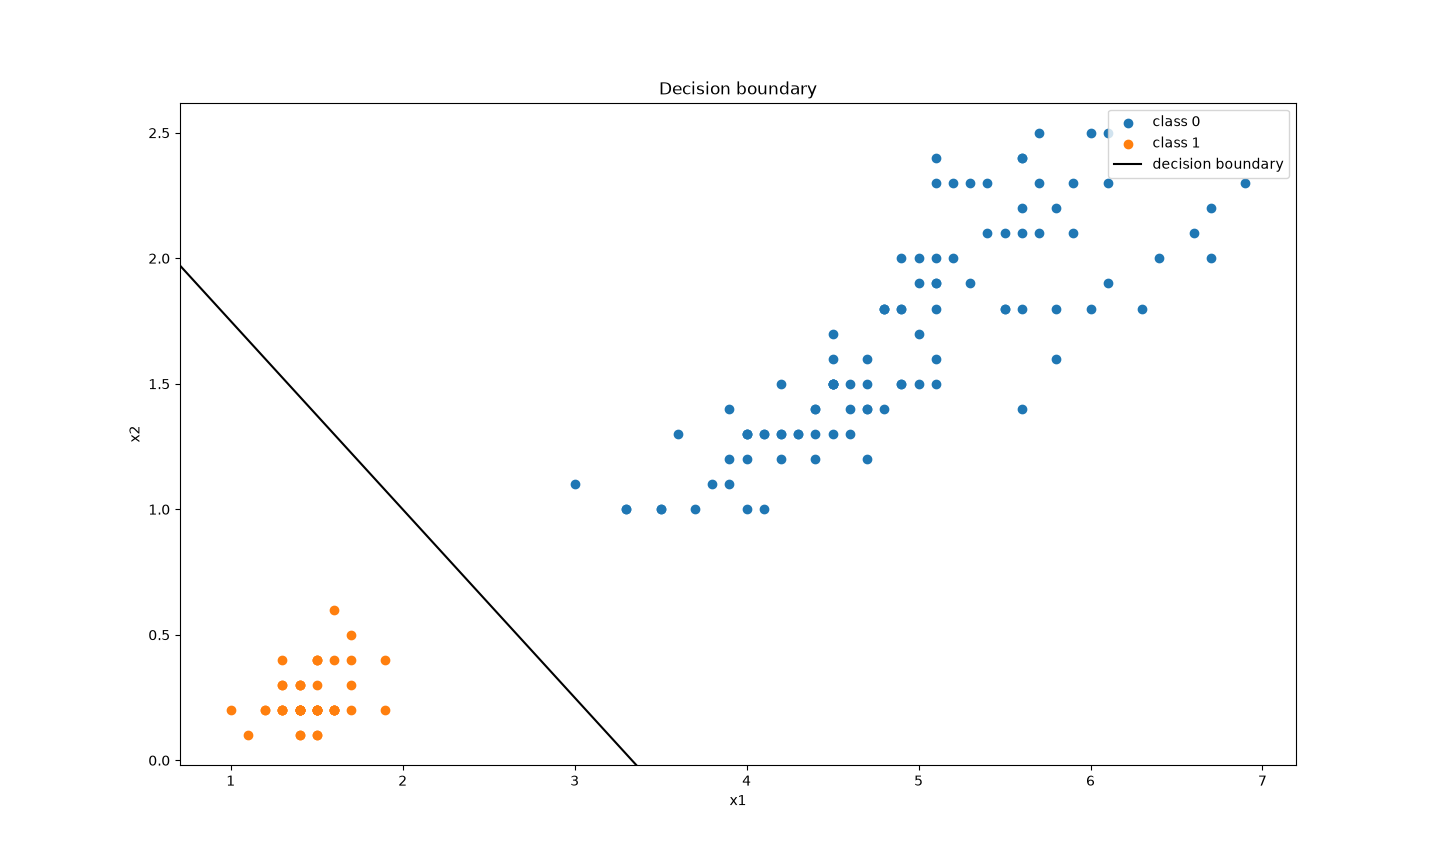
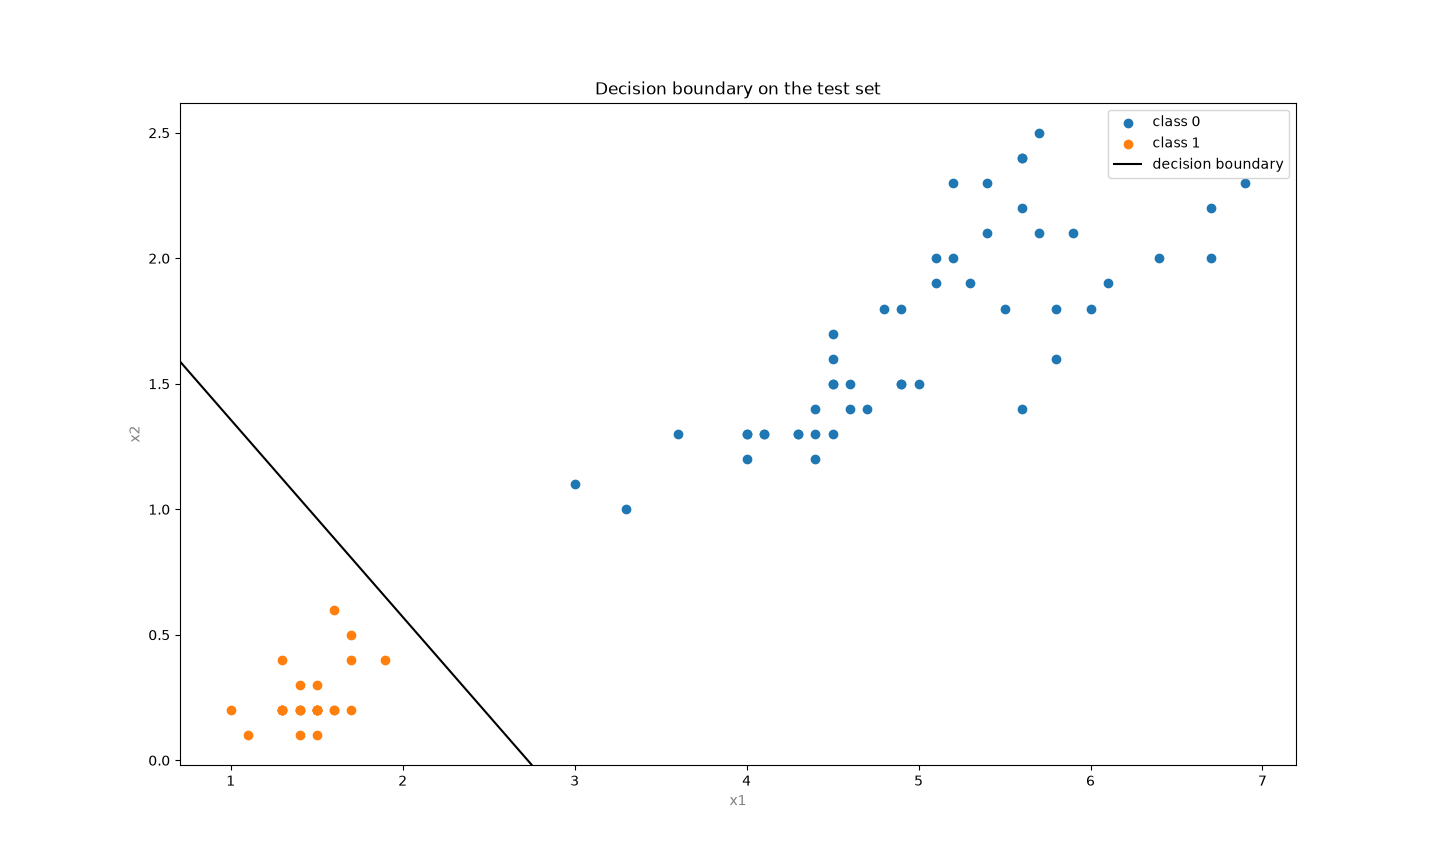
Add dataset split and test-size option

diff --git a/src/perceptron/cli.py b/src/perceptron/cli.py
@@ -6,7 +6,7 @@ from pathlib import Path
 import matplotlib.pyplot as plt
 from matplotlib.figure import Figure
 
-from perceptron.data import generate_two_clusters, load_iris_binary
+from perceptron.data import generate_two_clusters, load_iris_binary, train_test_split
 from perceptron.model import FloatArray, IntArray, Perceptron
 from perceptron.plots import plot_decision_boundary, plot_errors
 
@@ -36,6 +36,12 @@ def build_parser() -> argparse.ArgumentParser:
     parser.add_argument(
         "--epochs", type=int, default=50, help="number of training epochs"
     )
+    parser.add_argument(
+        "--test-size",
+        type=float,
+        default=0.2,
+        help="fraction of samples assigned to the test set (default: %(default)s)",
+    )
     parser.add_argument("--seed", type=int, default=0, help="seed for reproducibility")
     parser.add_argument(
         "--dataset",
@@ -63,6 +69,9 @@ def validate_args(parser: argparse.ArgumentParser, args: argparse.Namespace) -> 
     if args.epochs < 1:
         parser.error("--epochs must be at least 1")
 
+    if not 0 < args.test_size < 1:
+        parser.error("--test-size must be strictly between 0 and 1")
+
 
 def load_data(args: argparse.Namespace) -> tuple[FloatArray, IntArray]:
     """Generate clusters or load Iris depending on --dataset."""
@@ -74,6 +83,13 @@ def load_data(args: argparse.Namespace) -> tuple[FloatArray, IntArray]:
             spread=args.spread,
         )
     return load_iris_binary()
+
+
+def split_data(
+    args: argparse.Namespace, X: FloatArray, y: IntArray
+) -> tuple[FloatArray, FloatArray, IntArray, IntArray]:
+    """Split the dataset into training and test sets using CLI options."""
+    return train_test_split(X, y, test_size=args.test_size, seed=args.seed)
 
 
 def train_model(
@@ -105,7 +121,9 @@ def make_figures(
     """Build plots and return them keyed by file name."""
     figures = {"errors": plot_errors(errors)}
     if X.shape[1] == 2 and model.n_features == 2:
-        figures["boundary"] = plot_decision_boundary(model=model, X=X, y=y)
+        figures["boundary"] = plot_decision_boundary(
+            model=model, X=X, y=y, title="Decision boundary on the test set"
+        )
     else:
         print("Decision boundary is only available for 2 features")
 
@@ -131,12 +149,12 @@ def print_report(
     y: IntArray,
 ) -> None:
     """Print dataset info, training summary and accuracy."""
-    print(f"Dataset: {args.dataset} ({X.shape[0]} samples, {X.shape[1]} features)")
+    print(f"Test set: {args.dataset} ({X.shape[0]} samples, {X.shape[1]} features)")
     status = "converged" if errors[-1] == 0 else "not converged"
     epoch_word = "epoch" if len(errors) == 1 else "epochs"
     print(f"Training: {len(errors)} {epoch_word}, {status}")
     accuracy = model.score(X, y)
-    print(f"Accuracy: {accuracy:.3f}")
+    print(f"Test accuracy: {accuracy:.3f}")
 
 
 def main(argv: list[str] | None = None) -> None:
@@ -146,11 +164,15 @@ def main(argv: list[str] | None = None) -> None:
     validate_args(parser, args)
 
     X, y = load_data(args)
-    model, errors = train_model(args, X, y)
-    print_report(args, model, errors, X, y)
+    try:
+        X_train, X_test, y_train, y_test = split_data(args, X, y)
+    except ValueError as exc:
+        parser.error(str(exc))
+    model, errors = train_model(args, X_train, y_train)
+    print_report(args, model, errors, X_test, y_test)
 
     if args.plot or args.save_dir:
-        figures = make_figures(model, errors, X, y)
+        figures = make_figures(model, errors, X_test, y_test)
 
         if args.save_dir:
             save_figures(figures, args.save_dir)

diff --git a/src/perceptron/data.py b/src/perceptron/data.py
@@ -1,5 +1,7 @@
 """Synthetic dataset generation and Iris loading."""
 
+import math
+
 import numpy as np
 from sklearn.datasets import load_iris
 
@@ -77,3 +79,53 @@ def load_iris_binary() -> tuple[FloatArray, IntArray]:
     target = np.asarray(iris.target == 0, dtype=np.int_)
 
     return dataset, target
+
+
+def train_test_split(
+    X: FloatArray, y: IntArray, test_size: float = 0.2, seed: None | int = None
+) -> tuple[FloatArray, FloatArray, IntArray, IntArray]:
+    """Randomly split features and labels into training and test sets.
+
+    Args:
+        X: Feature matrix of shape (n_samples, n_features).
+        y: Label array of shape (n_samples,).
+        test_size: Fraction of samples assigned to the test set. The resulting
+            test count is rounded up to the next integer if needed.
+        seed: Random seed for reproducibility. If None, the split can vary
+            between calls.
+
+    Returns:
+        A tuple (X_train, X_test, y_train, y_test).
+
+    Raises:
+        ValueError: If X or y has the wrong number of dimensions, their sample
+            counts differ, test_size is outside the open interval (0, 1), or
+            the split leaves no training samples.
+    """
+    if X.ndim != 2:
+        raise ValueError("X must be a two-dimensional array")
+
+    if y.ndim != 1:
+        raise ValueError("y must be a one-dimensional array")
+
+    if X.shape[0] != y.shape[0]:
+        raise ValueError("X and y must contain the same number of samples")
+
+    if not 0 < test_size < 1:
+        raise ValueError("test_size must be strictly between 0 and 1")
+
+    n_samples = X.shape[0]
+    n_test = math.ceil(n_samples * test_size)
+
+    if n_test >= n_samples:
+        raise ValueError("The requested split leaves no samples for training")
+
+    rng = np.random.default_rng(seed)
+    indices = rng.permutation(n_samples)
+
+    X_test = X[indices[:n_test]]
+    X_train = X[indices[n_test:]]
+    y_test = y[indices[:n_test]]
+    y_train = y[indices[n_test:]]
+
+    return X_train, X_test, y_train, y_test

diff --git a/README.md b/README.md
@@ -4,8 +4,8 @@
 ![Python](https://img.shields.io/badge/python-3.12-blue)
 
 A single-layer perceptron for binary classification, implemented by hand with NumPy.
-It trains on synthetic 2D clusters or on the Iris dataset, prints its accuracy,
-and plots the decision boundary and the training error curve.
+It trains on synthetic 2D clusters or on the Iris dataset, reports accuracy on
+held-out samples, and plots the decision boundary and the training error curve.
 
 <p align="center">
   <img src="docs/boundary_clusters.png" width="49%" alt="Decision boundary">
@@ -18,8 +18,11 @@ and plots the decision boundary and the training error curve.
   `w += lr · (target − pred) · x`, and early stopping once an epoch has no errors.
 - **Synthetic data.** Two Gaussian clusters around different centers,
   reproducible via `--seed`.
-- **Real data.** Iris: setosa vs. the other species, using petal length and width. 
-- **Visualization.** Decision boundary over class-colored samples and errors per epoch.
+- **Real data.** Iris: setosa vs. the other species, using petal length and width.
+- **Train/test split.** The CLI trains on 80% of the samples by default and
+  evaluates accuracy on the remaining 20%.
+- **Visualization.** Decision boundary over class-colored test samples and
+  training errors per epoch.
   Plots can be shown interactively or saved as PNG files.
 - **Simple CLI.** One command to run, clear error messages instead of tracebacks.
 - **Code quality.** Type hints, `ruff`, `mypy --strict`, `pytest` tests, and CI on GitHub Actions.
@@ -66,12 +69,29 @@ uv sync
 uv run perceptron --samples 200 --lr 0.1 --epochs 50
 ```
 
-Example output:
+With the default split and seed (`0`), this command uses 160 samples for training
+and 40 for testing. It produces the following report:
 
 ```
-Dataset: clusters (200 samples, 2 features)
+Test set: clusters (40 samples, 2 features)
 Training: 2 epochs, converged
-Accuracy: 1.000
+Test accuracy: 1.000
+```
+
+### Harder synthetic clusters
+
+Generate 1,000 samples with closer cluster centers and a larger spread than in
+the default example. With seed `0` and the default 80/20 split, training
+converges after 22 epochs and correctly classifies 199 of 200 test samples.
+
+```bash
+uv run perceptron --samples 1000 --offset 2.31 --spread 1.2
+```
+
+```
+Test set: clusters (200 samples, 2 features)
+Training: 22 epochs, converged
+Test accuracy: 0.995
 ```
 
 More examples:
@@ -80,7 +100,7 @@ More examples:
 uv run perceptron --plot                     # show plots
 uv run perceptron --dataset iris --plot      # train on Iris
 uv run perceptron --save-dir docs/           # save plots as PNG files
-uv run perceptron --offset 3.0 --spread 1.5  # generate harder clusters
+uv run perceptron --test-size 0.25           # hold out 25% for testing
 uv run perceptron --help                     # list all options
 ```
 
@@ -95,17 +115,31 @@ You can also run the package as a module: `uv run python -m perceptron ...`
 | `--spread` | `1.0` | cluster standard deviation (`clusters` only) |
 | `--lr` | `0.1` | learning rate, must be positive |
 | `--epochs` | `50` | maximum number of epochs, at least 1 |
-| `--seed` | `0` | random seed for data generation |
+| `--test-size` | `0.2` | fraction held out for testing, strictly between 0 and 1 |
+| `--seed` | `0` | random seed for cluster generation and train/test splitting |
 | `--dataset` | `clusters` | `clusters` or `iris` |
 | `--plot` | off | show plots after training |
 | `--save-dir` | None | directory to save plots as PNG |
+
+The test sample count is rounded up to a whole number. The split must leave at
+least one sample for training.
 
 ## Iris
 
 A perceptron distinguishes only two classes, so the task is reduced to
 "setosa vs. the rest". Two features are used - petal length and petal width:
 setosa is linearly separable on them, and the boundary can be drawn on a plane.
-Training converges in 3 epochs with an accuracy of 1.0.
+With a test fraction of `0.5`, 75 samples are used for training and 75 are held
+out for testing. The split is random, so class proportions can vary with `--seed`.
+
+Run `uv run perceptron --dataset iris --test-size 0.5` to reproduce this report
+with the default seed (`0`):
+
+```
+Test set: iris (75 samples, 2 features)
+Training: 2 epochs, converged
+Test accuracy: 1.000
+```
 
 <p align="center">
   <img src="docs/boundary_iris.png" width="65%" alt="Iris decision boundary">
@@ -117,7 +151,7 @@ Training converges in 3 epochs with an accuracy of 1.0.
 .
 ├── src/perceptron/
 │   ├── model.py      # Perceptron class
-│   ├── data.py       # cluster generation and Iris loading
+│   ├── data.py       # cluster generation, Iris loading, and train/test splitting
 │   ├── plots.py      # decision boundary and error curve
 │   ├── cli.py        # argument parsing and entry point
 │   └── __main__.py   # enables `python -m perceptron`
